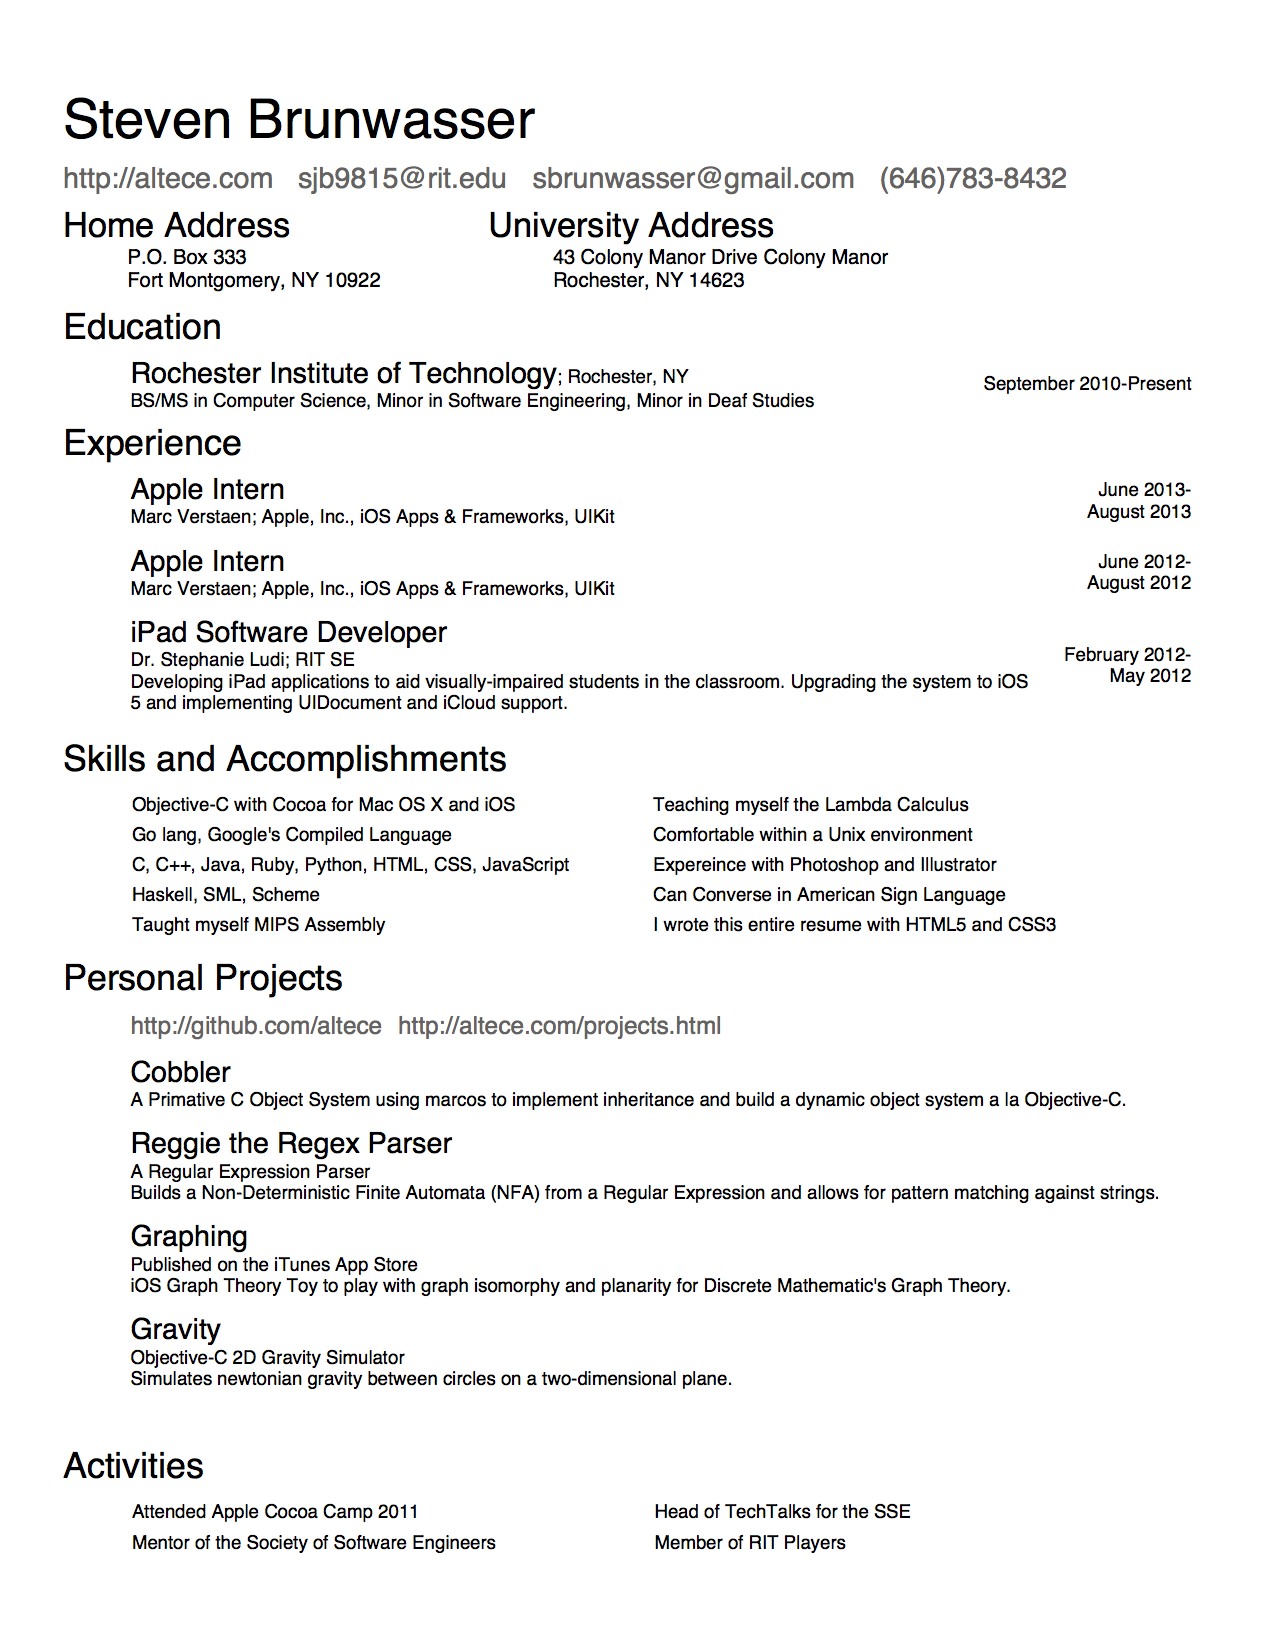
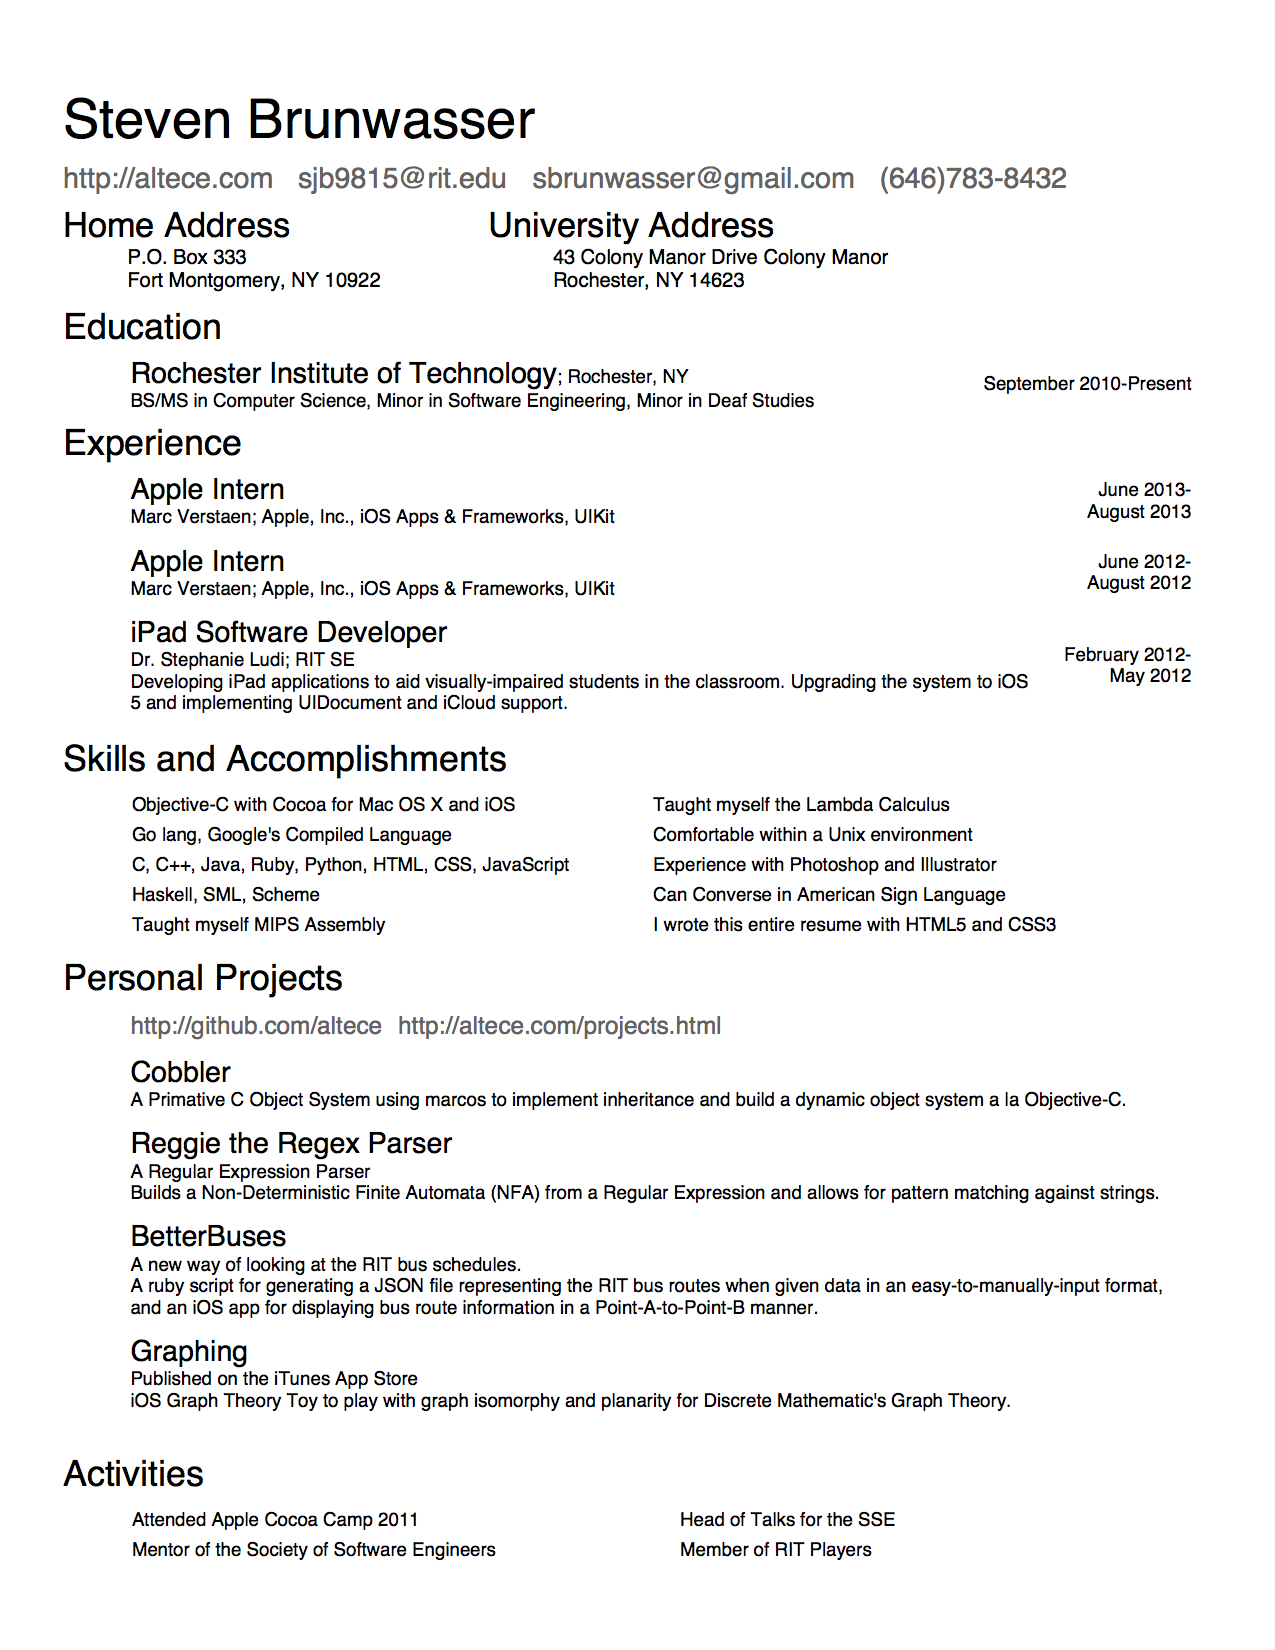
updated resume and BetterBuses link

Changed region(s): [[0.0306, 0.7418, 0.9176, 0.9582], [0.52, 0.8964, 0.7035, 0.9582], [0.52, 0.4636, 0.7647, 0.4945]]

diff --git a/projects.html b/projects.html
@@ -75,8 +75,8 @@ title: "Projects"
 		</article>
 
 		<article>
-			<header>BetterBusses</header>
-			<a class="button" href="http://altece.com/BetterBusses/">Official Project Page</a>
+			<header>BetterBuses</header>
+			<a class="button" href="http://altece.com/BetterBuses/">Official Project Page</a>
 
 			<p>Bus schedules can be hard and convluted to read. When you want to get from pont A to point B, you are required to inherently know which bus route that applies to, and you're supposed to inherently know what all the little symols mean, and if you don't understand, you need to hunt down the key and are forced to figure it out.</p>
 
